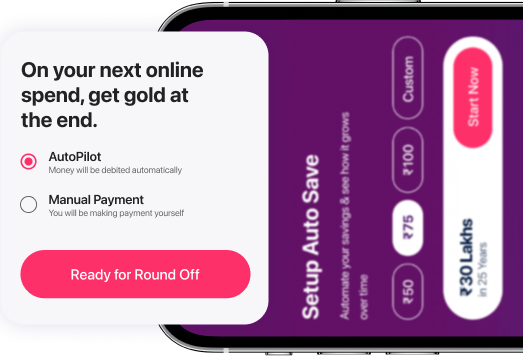
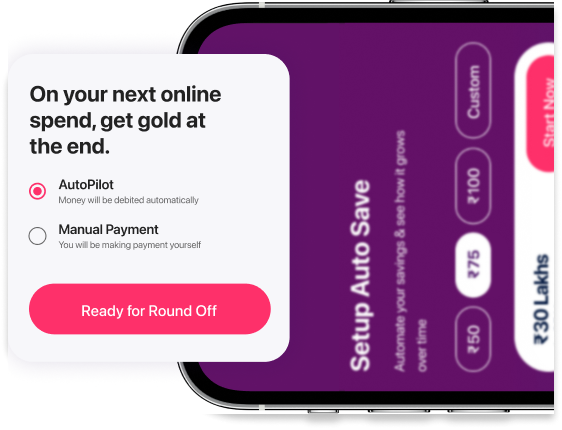
update

diff --git a/website/mobile.css b/website/mobile.css
@@ -175,6 +175,14 @@ body #main-top #main-banner-mobile-app-img {
   bottom: 0%;
   right: 10%;
 }
+body #main-top #main-banner-mobile-app-img img {
+  width: 84%;
+}
+@media (max-width: 1500px) {
+  body #main-top #main-banner-mobile-app-img img {
+    width: 112%;
+  }
+}
 @media (max-width: 992px) {
   body #main-top #main-banner-mobile-app-img {
     position: relative !important;
@@ -316,11 +324,10 @@ body #features-investment-journy #auto-pilot .image-section {
 }
 body #features-investment-journy #auto-pilot .image-section .image {
   position: absolute;
-  bottom: -57px;
-  left: 106px;
+  bottom: -11px;
+  left: 2px;
   z-index: 2;
-  width: 356px;
-  height: 500px;
+  width: 100%;
 }
 body #features-investment-journy #auto-pilot .image-section .vector {
   position: absolute;

diff --git a/website/mobile.scss b/website/mobile.scss
@@ -161,6 +161,13 @@ body {
 			position: absolute;
 			bottom: 0%;
 			right: 10%;
+			img {
+				width: 84%;
+				@media (max-width: 1500px) {
+					width: 112%;
+				}
+			}
+
 			@media (max-width: 992px) {
 				position: relative !important;
 				right: auto;
@@ -298,11 +305,10 @@ body {
 				z-index: 0;
 				.image {
 					position: absolute;
-					bottom: -57px;
-					left: 106px;
+					bottom: -11px;
+					left: 2px;
 					z-index: 2;
-					width: 356px;
-					height: 500px;
+					width: 100%;
 				}
 				.vector {
 					position: absolute;
